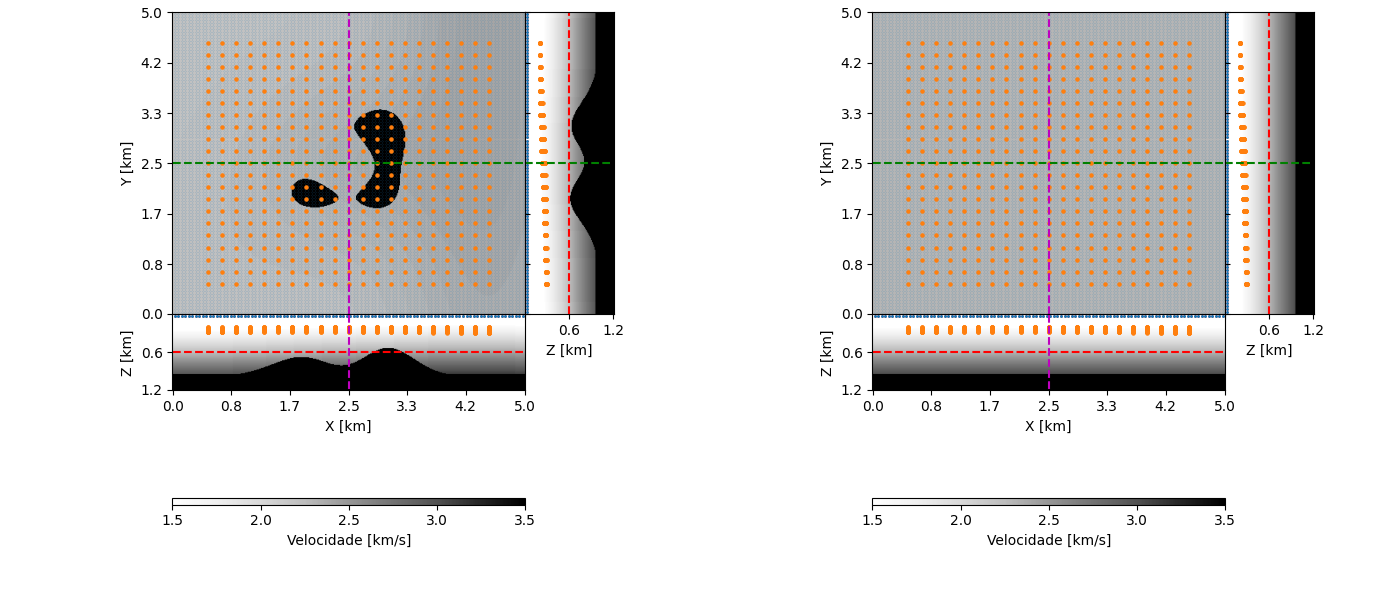
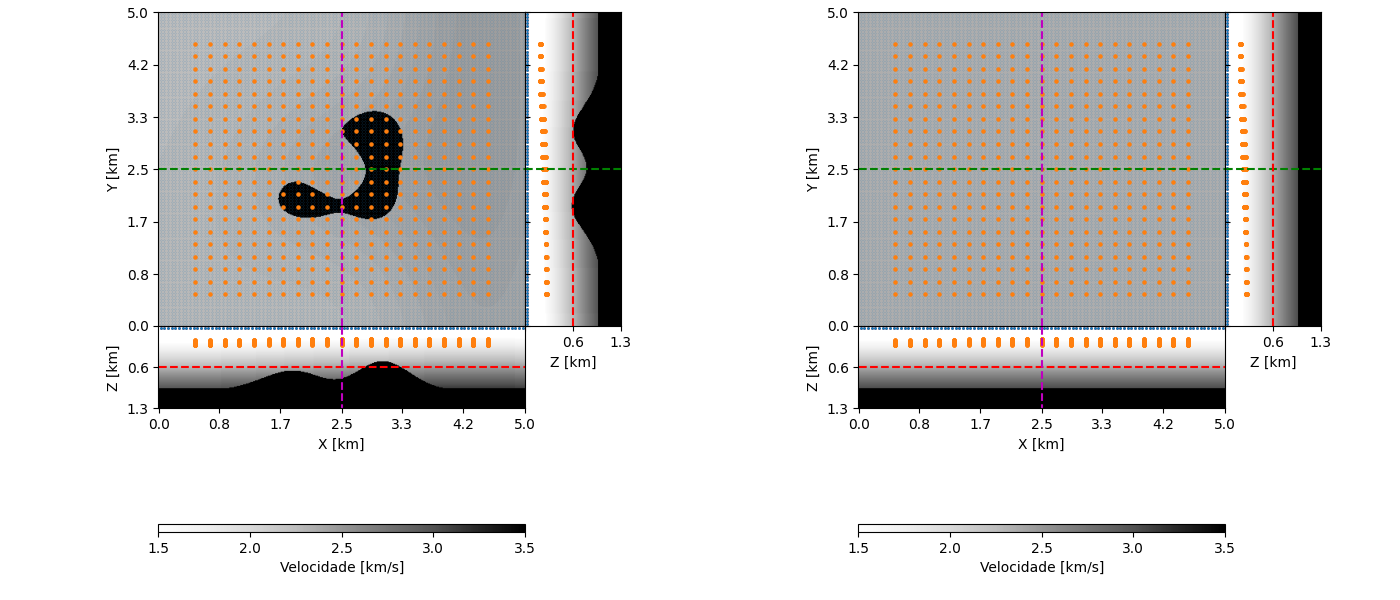
tomography results concluded

diff --git a/src/tomography/tomography.cpp b/src/tomography/tomography.cpp
@@ -23,10 +23,6 @@ void Tomography::setParameters()
 
     mTomo.nPoints = mTomo.nx * mTomo.ny * mTomo.nz;
 
-    xMask = split(catchParameter("xMask", parameters),',');
-    yMask = split(catchParameter("yMask", parameters),',');
-    zMask = split(catchParameter("zMask", parameters),',');
-
     lambda = std::stof(catchParameter("regParam", parameters));
     tkOrder = std::stof(catchParameter("regOrder", parameters));
     maxIteration = std::stoi(catchParameter("maxIteration", parameters));
@@ -304,13 +300,6 @@ void Tomography::optimization()
 
 void Tomography::modelUpdate()
 {    
-    int xlCut = (int)(std::stof(xMask[0]) / mTomo.dx); // x left cut 
-    int xrCut = (int)(std::stof(xMask[1]) / mTomo.dx); // x right cut
-    int ylCut = (int)(std::stof(yMask[0]) / mTomo.dy); // y left cut 
-    int yrCut = (int)(std::stof(yMask[1]) / mTomo.dy); // y right cut
-    int zuCut = (int)(std::stof(zMask[0]) / mTomo.dz); // z up cut  
-    int zdCut = (int)(std::stof(zMask[1]) / mTomo.dz); // z down cut
-
     // Tomography slowness update    
     for (int index = 0; index < mTomo.nPoints; index++) 
     {
@@ -318,7 +307,7 @@ void Tomography::modelUpdate()
         int j = (int) (index - k*mTomo.nx*mTomo.nz) / mTomo.nz;    // x direction
         int i = (int) (index - j*mTomo.nz - k*mTomo.nx*mTomo.nz);  // z direction        
 
-        if ((i >= zuCut) && (i < mTomo.nz - zdCut) && (j >= xlCut) && (j < mTomo.nx - xrCut - 1) && (k >= ylCut) && (k < mTomo.ny - yrCut - 1))
+        if ((i >= 0) && (i < mTomo.nz) && (j >= 0) && (j < mTomo.nx) && (k >= 0) && (k < mTomo.ny))
         { 
             model[index] += dm[index];
         }

diff --git a/main/analysis/2_experiment_config.py b/main/analysis/2_experiment_config.py
@@ -14,7 +14,7 @@ dz = 12.5
 
 nx = 401
 ny = 401
-nz = 101
+nz = 105
 
 #----------------------------------------------------------------------------
 
